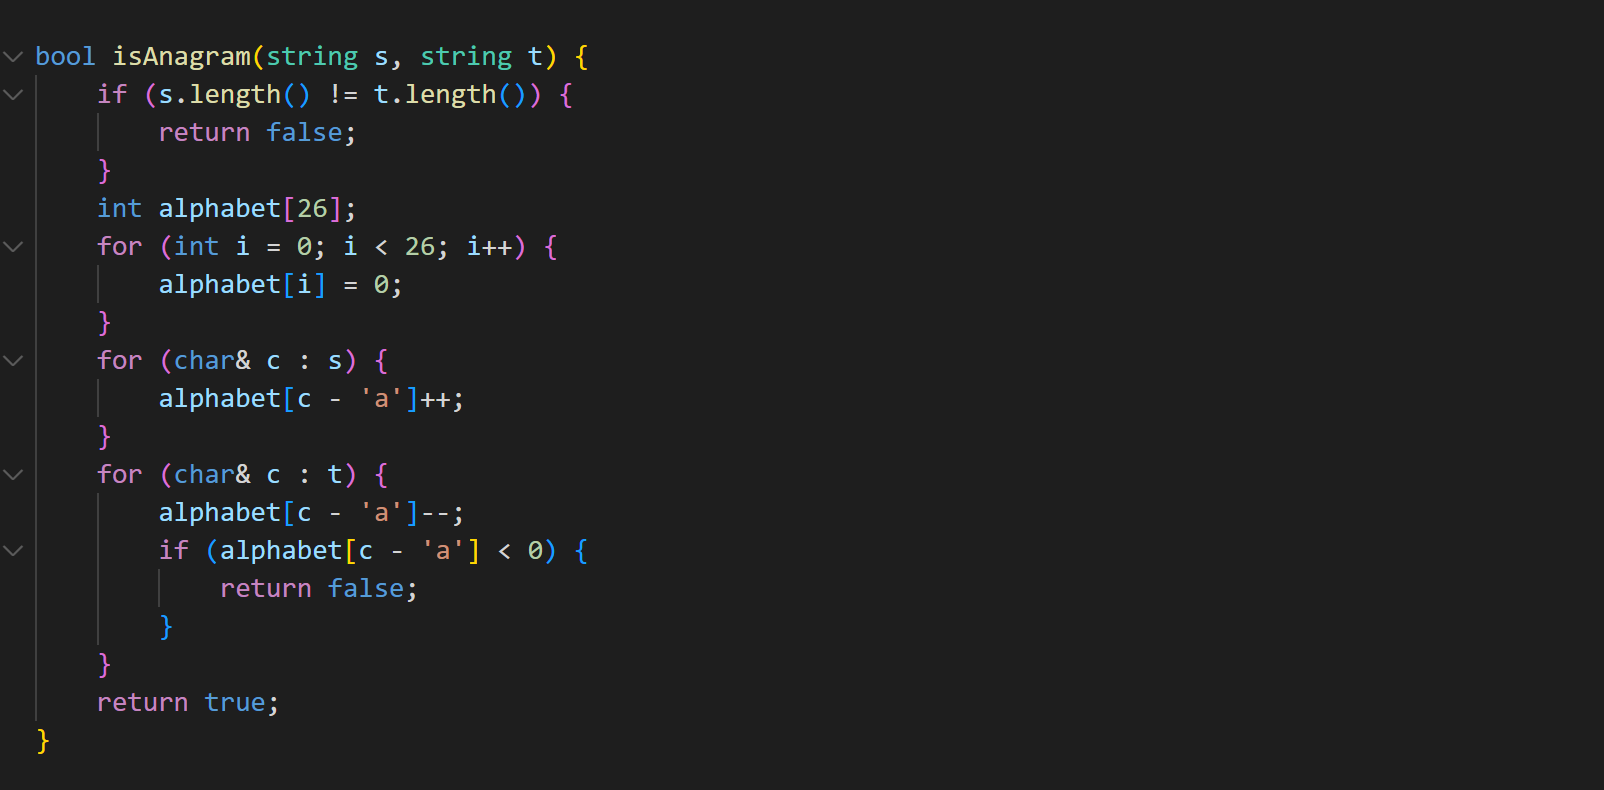
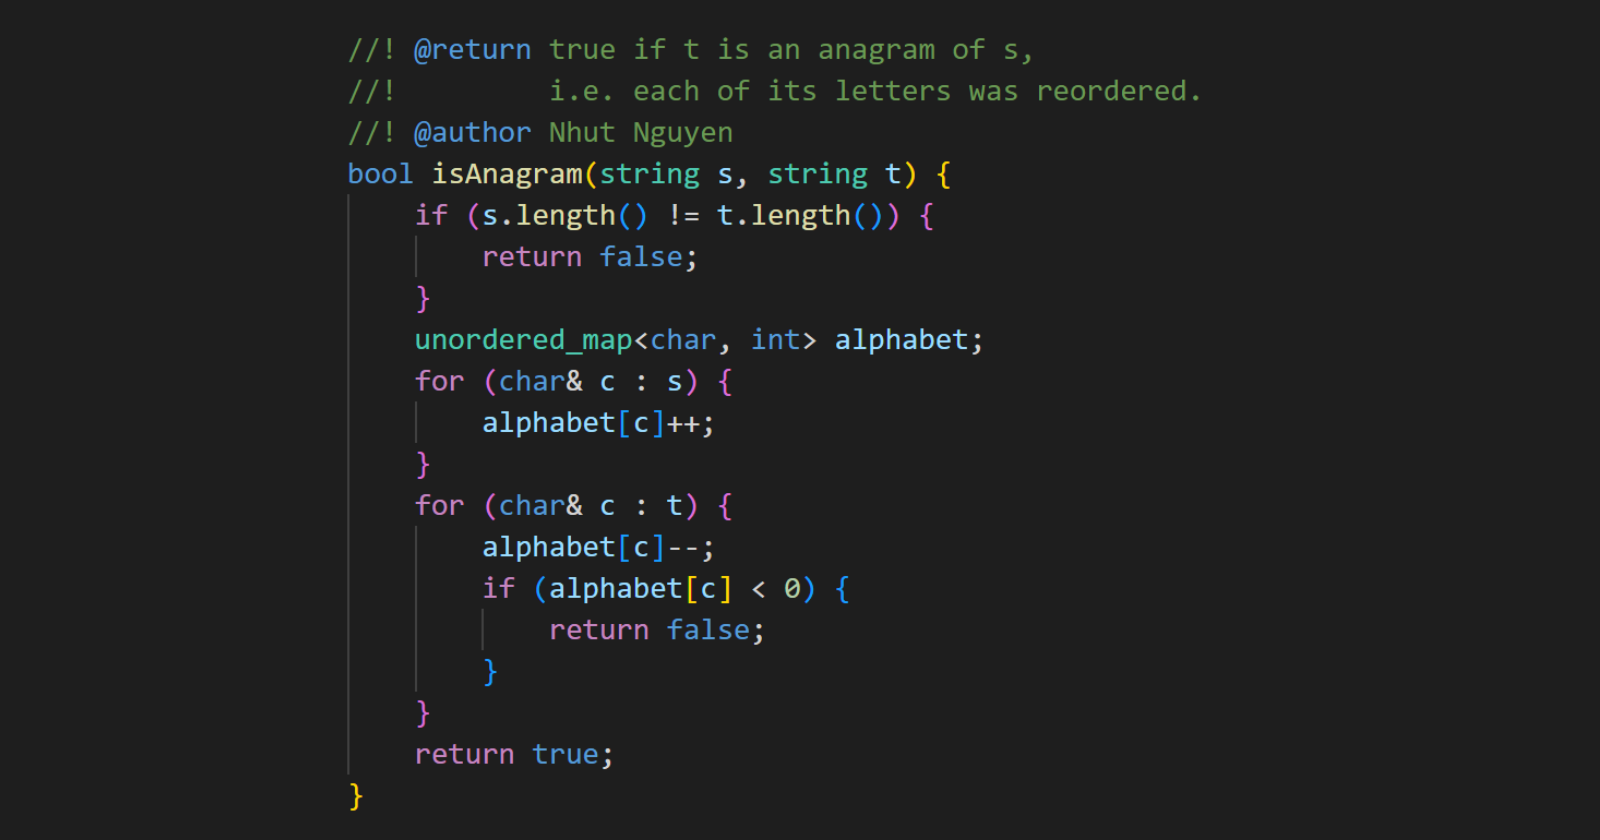
242 update code

diff --git a/242. Valid Anagram/242_Valid_Anagram.cpp b/242. Valid Anagram/242_Valid_Anagram.cpp
@@ -1,20 +1,21 @@
 #include <iostream>
+#include <unordered_map>
 using namespace std;
 
+//! @return true if t is an anagram of s, 
+//!         i.e. each of its letters was reordered.
+//! @author Nhut Nguyen
 bool isAnagram(string s, string t) {
     if (s.length() != t.length()) {
         return false;
     }
-    int alphabet[26];
-    for (int i = 0; i < 26; i++) {
-        alphabet[i] = 0;
-    }
+    unordered_map<char, int> alphabet;
     for (char& c : s) {
-        alphabet[c - 'a']++;
+        alphabet[c]++;
     }
     for (char& c : t) {
-        alphabet[c - 'a']--;
-        if (alphabet[c - 'a'] < 0) {
+        alphabet[c]--;
+        if (alphabet[c] < 0) {
             return false;
         }
     }
@@ -22,6 +23,6 @@ bool isAnagram(string s, string t) {
 }
 
 int main() {
-    cout << isAnagram("anagram", "nagaram") << endl;
+    cout << isAnagram("anagæam", "nagaæam") << endl;
     cout << isAnagram("rat", "car") << endl;
 }

diff --git a/1647. Minimum Deletions to Make Character Frequencies Unique/README.md b/1647. Minimum Deletions to Make Character Frequencies Unique/README.md
@@ -1,4 +1,5 @@
 ## 1647. Minimum Deletions to Make Character Frequencies Unique
+Tags: Microsoft, string, hash table, sorting
 
 ### Problem statement
 
